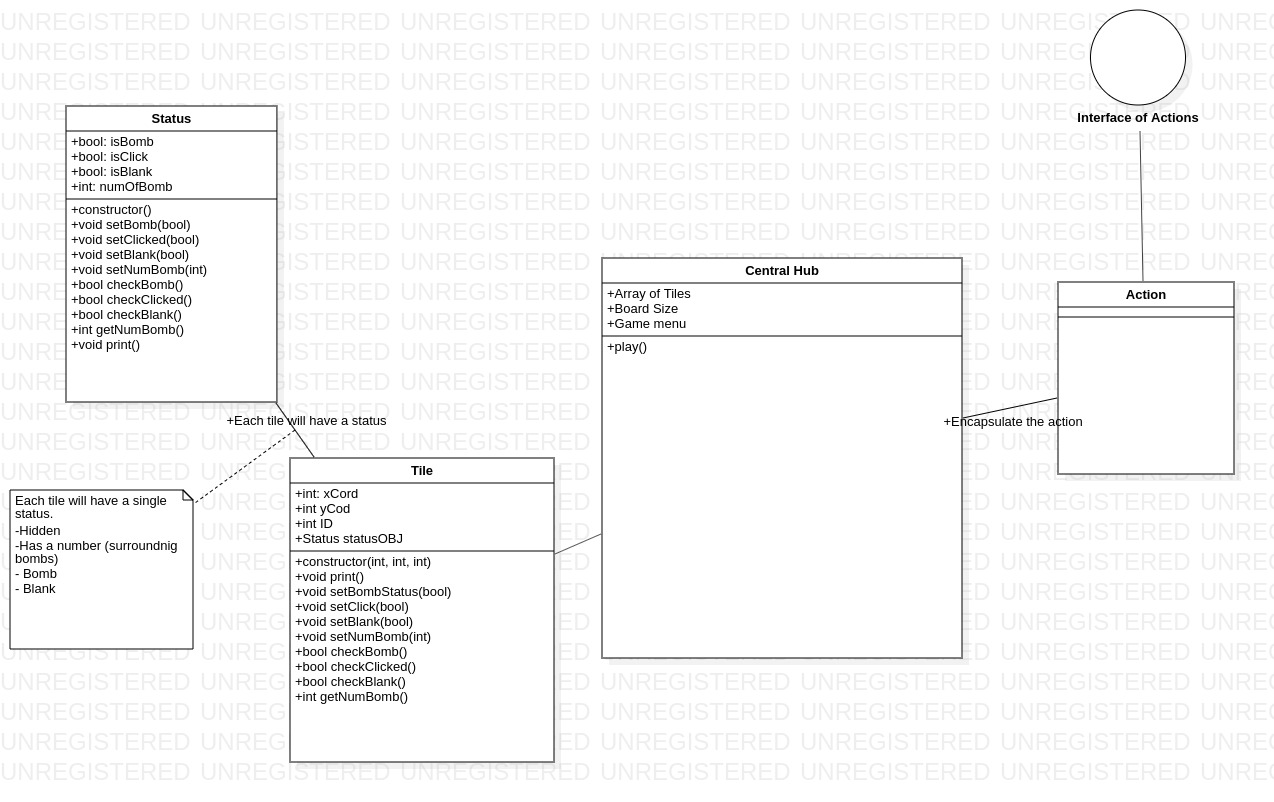
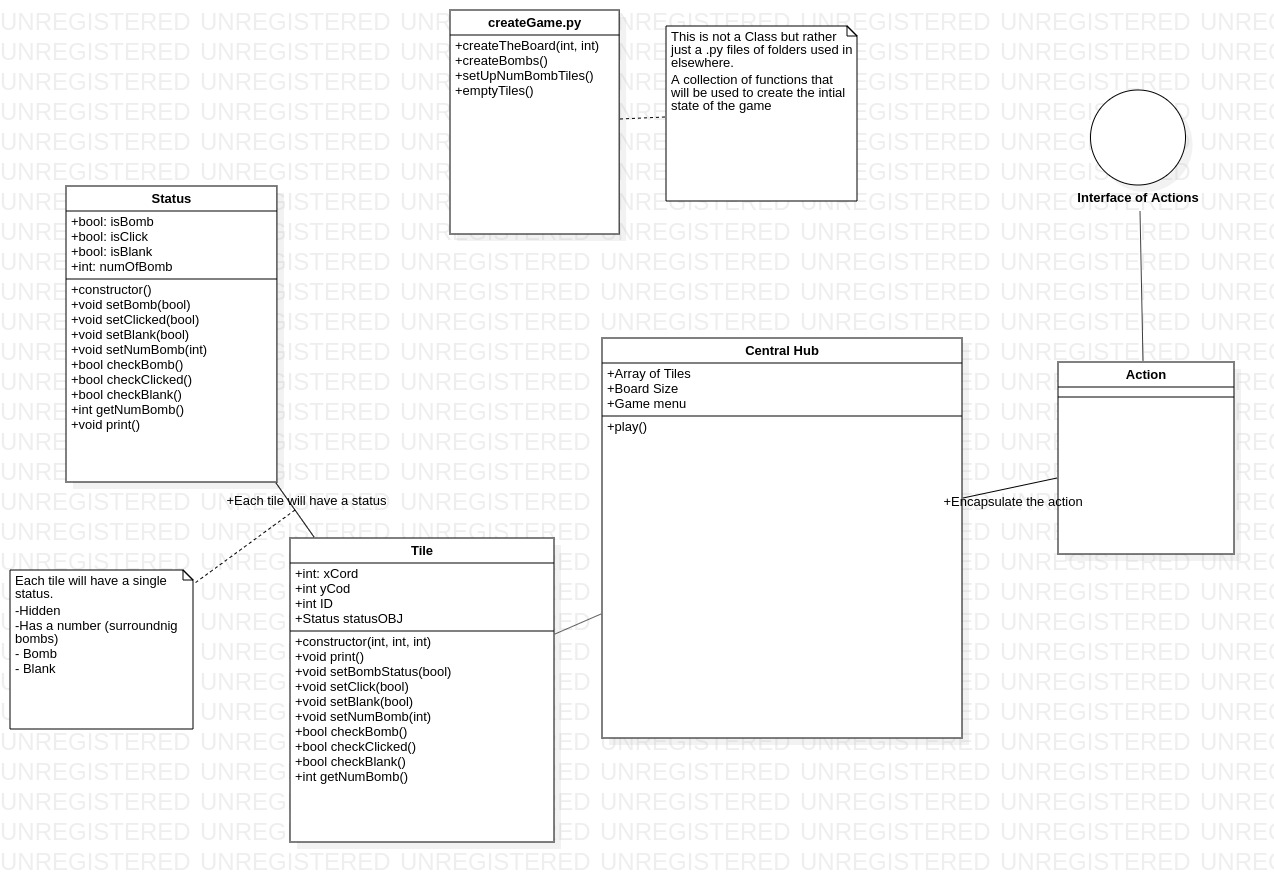
updated UML and created a .py file to make the game

diff --git a/Main.py b/Main.py
@@ -11,6 +11,17 @@ depending on the userinput
 #import the Tile class from the Tile.py
 from Tile import Tile
 
+def createTheBord(gameBoard):
+    count = 0
+    for i in range(5):
+        row = []
+        for j in range(6):
+            row.append(Tile(i,j,count))
+            count = count + 1
+        gameBoard.append(row)
+
+
+
 
 def main ( ):
 
@@ -18,12 +29,7 @@ def main ( ):
 
     #below creates a 2d array of Tiles
     gameBoard = []
-    for i in range (5):
-        row = []
-        for j in range (6):
-            row.append(Tile(i,j,count))
-            count = count + 1;
-        gameBoard.append(row)
+    createTheBord(gameBoard)
 
     # #print out the board in good fashion
     # for i in range(5):
@@ -36,7 +42,7 @@ def main ( ):
     gameBoard[3][4].printInfo()
 
     gameBoard[1][1].setBombStatus(True)
-    gameBoard[1][1].setBlank(False)
+    gameBoard[1][1].setBlank(True)
     gameBoard[1][1].printInfo()
 
 

diff --git a/createGame.py b/createGame.py
@@ -1,0 +1,12 @@
+"""
+This python file will have functions that will be used to create the game in Main.py
+
+-setting up the dimensions of the board
+-setting up the bombs of the board
+-setting up the number of bombs surrounding
+-setting up blank empty tiles
+
+Actions/Commands of the game will be located in another file 
+
+
+"""
